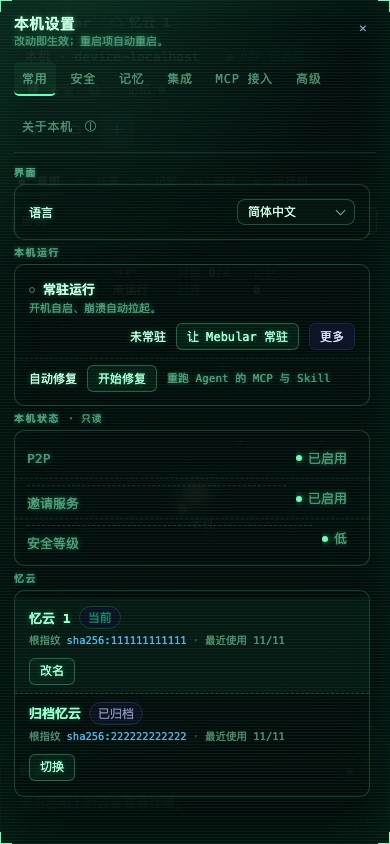
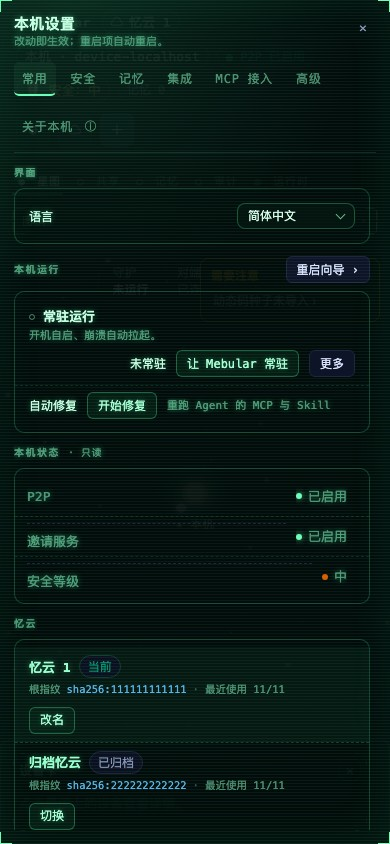
style(console): move restart guide to the resident group head
- wizard is a 27px ghost action in the group head (keeps #settings-open-wizard and desktop bridge)
- restore settings group rhythm to 12/8 (no 5/4), no row added to the panel
- 720 + 40 banner: content 579 / 590 (browser and desktop), no scroll
- 390 head wraps, no overflow; update wizard assertions and common screenshots

diff --git a/packages/console/console.js b/packages/console/console.js
@@ -10,7 +10,7 @@ import { StarStage, namespaceColor, shortId, buildHoverRoutes, buildNetworkScene
 import { initialViewFromSearch } from './deep-link.js';
 import { createWizardState, wizardReduce, WIZARD_STEPS } from './wizard.js';
 import { IA_TABS, IA_ADVANCED_SECTIONS, IA_MCP_SECTIONS, IA_FIELD_COPY, IA_SETTINGS_EXTRA, IA_SETTINGS_FOLDS, IA_SECURITY_SECTIONS, IA_MCP_DANGER_LINE_KEYS, INVITE_TTL_OPTIONS, INVITE_TTL_DEFAULT_MS, SECURITY_LEVEL_LABEL, SECURITY_LEVEL_TITLE_KEY, SECURITY_LEVEL_NOTE_KEY, SECURITY_BOUNDARY_KEY, SCHEMA_CONFIGURED_VALUE, localizeSchemaReason, refreshCsrfToken, withCsrfRetry, filterRuntimeTimeline, runtimeTimelineKind, memoryRuntimeEnabledOf, runtimeSidecarStateKey, memoryRuntimeModeOf, runtimeShowsModelSettings, runtimeModelSourceOf, runtimeModelSourceAvailable, runtimeModelSourceReady, runtimeModelJobActive, runtimeModelStatusOf, runtimeModelActionOf, formatBytes, IA_RUNTIME_MODEL_SOURCES, IA_RUNTIME_MODEL_SOURCE_DEFAULT } from './settings-ia.js';
-import { assistantsPanelHtml, serviceRowHtml, wizardRowHtml, repairRowHtml, statusPillHtml, attentionItems, assistantAddFormHtml } from './assistants.js';
+import { assistantsPanelHtml, serviceRowHtml, wizardHeadActionHtml, repairRowHtml, statusPillHtml, attentionItems, assistantAddFormHtml } from './assistants.js';
 import { reconcileAssistantUi } from './assistant-status.js';
 import { createConsoleHost, markEmbeddedDocument } from './host.js';
 import { t, getLocale, setLocale, onLocaleChange, applyStaticI18n, languageSettingsRowHtml, initI18n, reconcileDesktopLocale, LOCALE_STORAGE_KEY, formatDate as formatLocaleDate, formatDateTime as formatLocaleDateTime, formatExpiry } from './i18n.mjs';
@@ -2166,8 +2166,8 @@ function renderSettings(activeTab = state.settingsTab ?? 'common') {
         <div class="settings-group-body">${languageSettingsRowHtml()}</div>
       </section>
       <section class="settings-group" data-settings-group="resident">
-        <div class="settings-group-head"><h3>${escapeHtml(t('settings.common.group.runs'))}</h3></div>
-        <div class="settings-group-body" id="settings-resident">${serviceRowHtml(state.service, state.serviceMsg)}${repairRowHtml(state.repair)}${wizardRowHtml(host.capabilities.openWizard)}</div>
+        <div class="settings-group-head${host.capabilities.openWizard ? ' has-action' : ''}"><h3>${escapeHtml(t('settings.common.group.runs'))}</h3>${wizardHeadActionHtml(host.capabilities.openWizard)}</div>
+        <div class="settings-group-body" id="settings-resident">${serviceRowHtml(state.service, state.serviceMsg)}${repairRowHtml(state.repair)}</div>
       </section>
       <section class="settings-group" data-settings-common-status>
         <div class="settings-group-head"><h3>${escapeHtml(t('settings.common.statusTitle'))}</h3><span class="settings-group-suffix">· ${escapeHtml(t('settings.common.readonly'))}</span></div>

diff --git a/packages/console/assistants.js b/packages/console/assistants.js
@@ -373,14 +373,11 @@ export function serviceRowHtml(service, serviceMsg = '') {
     </div>`;
 }
 
-/** 重启向导行（设置 · 常用；web 无 preload 桥时隐藏）。 */
-export function wizardRowHtml(hasBridge) {
+/** 重启向导动作（设置 · 常用「本机运行」组头右侧；web 无 preload 桥时隐藏）。 */
+export function wizardHeadActionHtml(hasBridge) {
   if (!hasBridge) return '';
-  return `<div class="asst-row settings-wizard-row">
-    <span class="asst-name">${esc(tr('settings.wizard.title', '重启向导'))}</span>
-    <span class="asst-st" title="${esc(tr('settings.wizard.note', '重新走一遍首次设置（不动已有配置）'))}">${esc(tr('settings.wizard.note', '重新走一遍首次设置（不动已有配置）'))}</span>
-    <button class="btn btn-small" type="button" id="settings-open-wizard">${esc(tr('settings.wizard.action', '重启向导 ›'))}</button>
-  </div>`;
+  return `<button class="btn btn-small btn-ghost settings-wizard-action" type="button" id="settings-open-wizard"
+    title="${esc(tr('settings.wizard.note', '重新走一遍首次设置（不动已有配置）'))}">${esc(tr('settings.wizard.action', '重启向导 ›'))}</button>`;
 }
 
 /**

diff --git a/packages/console/console.css b/packages/console/console.css
@@ -3297,3 +3297,17 @@ html[lang="en-US"] .modal-settings .cfg-label { line-height: 19px; }
 .modal-settings .settings-group { margin-top: 5px; }
 .modal-settings .settings-group-head { margin-bottom: 4px; }
 .modal-settings .settings-scroll { padding-top: 8px; }
+
+/* v2.1 · 常用 spacing 回到 4/8/12/16 阶梯；重启向导改为组头右侧 27 ghost 动作 */
+.modal-settings .settings-group { margin-top: 12px; }
+.modal-settings .settings-group-head { margin-bottom: 8px; }
+.settings-group-head.has-action { align-items: center; }
+.settings-group-head.has-action h3 { flex: 0 1 auto; }
+.settings-wizard-action {
+  flex: none; margin-left: auto;
+  margin-top: -6px; margin-bottom: -6px; /* 27 高落在 15 行 + 8 间隙内，不抬组头 */
+}
+@media (max-width: 560px) {
+  .settings-group-head.has-action { height: auto; flex-wrap: wrap; row-gap: 4px; }
+  .settings-wizard-action { margin-top: 0; margin-bottom: 0; }
+}

diff --git a/docs/console/screens/u4-settings-redesign/README.md b/docs/console/screens/u4-settings-redesign/README.md
@@ -13,7 +13,7 @@
 - **竖轨**：≥901px 为左侧 **188px** 固定页签轨（review §5 的 160 为文档冲突，按 188 执行）（`常用 / 安全 / 记忆 / 集成 / MCP 接入 / 高级`，底部「关于本机 ⓘ」）；**≤900px** 折叠为顶部横排；**≤760px** 顶部横排 + 只读行改为上下两行；**≤560px** 全屏无边框。
 - **900 档**：顶部横排后内容区变矮，**允许竖向滚动**（正常行、正常滚动）；只读行仍是 40px、label/value 同一行，禁止套 390 的堆叠规则。
 - **统一行模板**：字段行 `label 150 | control 1fr | status 68`，只读行 `label | value | action`；40px + 行间虚线；常驻/忆云两行信息 58px；高级开关 38×20；警告/帮助独立成行。
-- **常用「界面」组**：语言行归入 10px「界面」组头；新增组头后 720 + 40 条实测内容 **542 / 590**（浏览器），桌面壳含重启向导行 **582 / 590**，余 8px，不滚动（压缩组间距 12→5、组头 8→4，未隐藏内容）。
+- **常用「界面」组**：语言行归入 10px「界面」组头；「重启向导」从 40px 行移到「本机运行」组头右侧（27px ghost，保留 `#settings-open-wizard` 与桌面桥条件，动作不占行高）。组间距恢复 **12**、组头下距 **8**（4/8/12/16 阶梯）；720 + 40 条实测内容 **579 / 590**（浏览器与桌面壳一致），余 **11px**，不滚动。
 - **异常可见性**：`pending` / `mismatch` 的完整三元组（已配置 / 实际 / 原因）默认作为行下静态 11px 警告行显示，不依赖 focus、不藏 popover；行本身仍 40px，无异常时没有这行。
 - **安全卡**：三张同构 114px（安全等级 / 动态码种子 / 恢复码），19px 状态值；`is-effective` 实心点 + 左侧荧光条，`is-off` 空心点；待批准条只在有记录时置顶（40px）。
 - **关于本机**：三组（身份与存储 / 运行与同步 / 诊断与恢复）+ 三折叠，40px 行；旧 about 的 43 项字段全量保留（见 `../../../console/ABOUT-PARITY` 对应原型清单），不新增日志路径。
@@ -27,7 +27,7 @@
 
 | 文件 | 说明 |
 |---|---|
-| `u4-after-settings-common-1440.jpg` | 常用：语言 + 本机运行（常驻 58 / 修复 40 / 向导 40）+ 本机状态 3×40 + 忆云 2×58 |
+| `u4-after-settings-common-1440.jpg` | 常用：界面组（语言）+ 本机运行（常驻 58 / 修复 40 / 组头「重启向导」27 ghost）+ 本机状态 3×40 + 忆云 2×58 |
 | `u4-after-settings-common-banner-1440.jpg` | 常用 + 40px 待重启条：单行、动作右对齐、不挤压内容 |
 | `u4-after-settings-security-1440.jpg` | 安全：01–03 序号列 + 114 卡 + 19px 值 + 11px 审计一行流（无事件时隐藏） |
 | `u4-after-settings-memory-1440.jpg` | 记忆：记忆模式（轻量 MCP / 沉浸式）/ 模型来源（heuristic/local/host/api/auto）/ 运行状态 |
